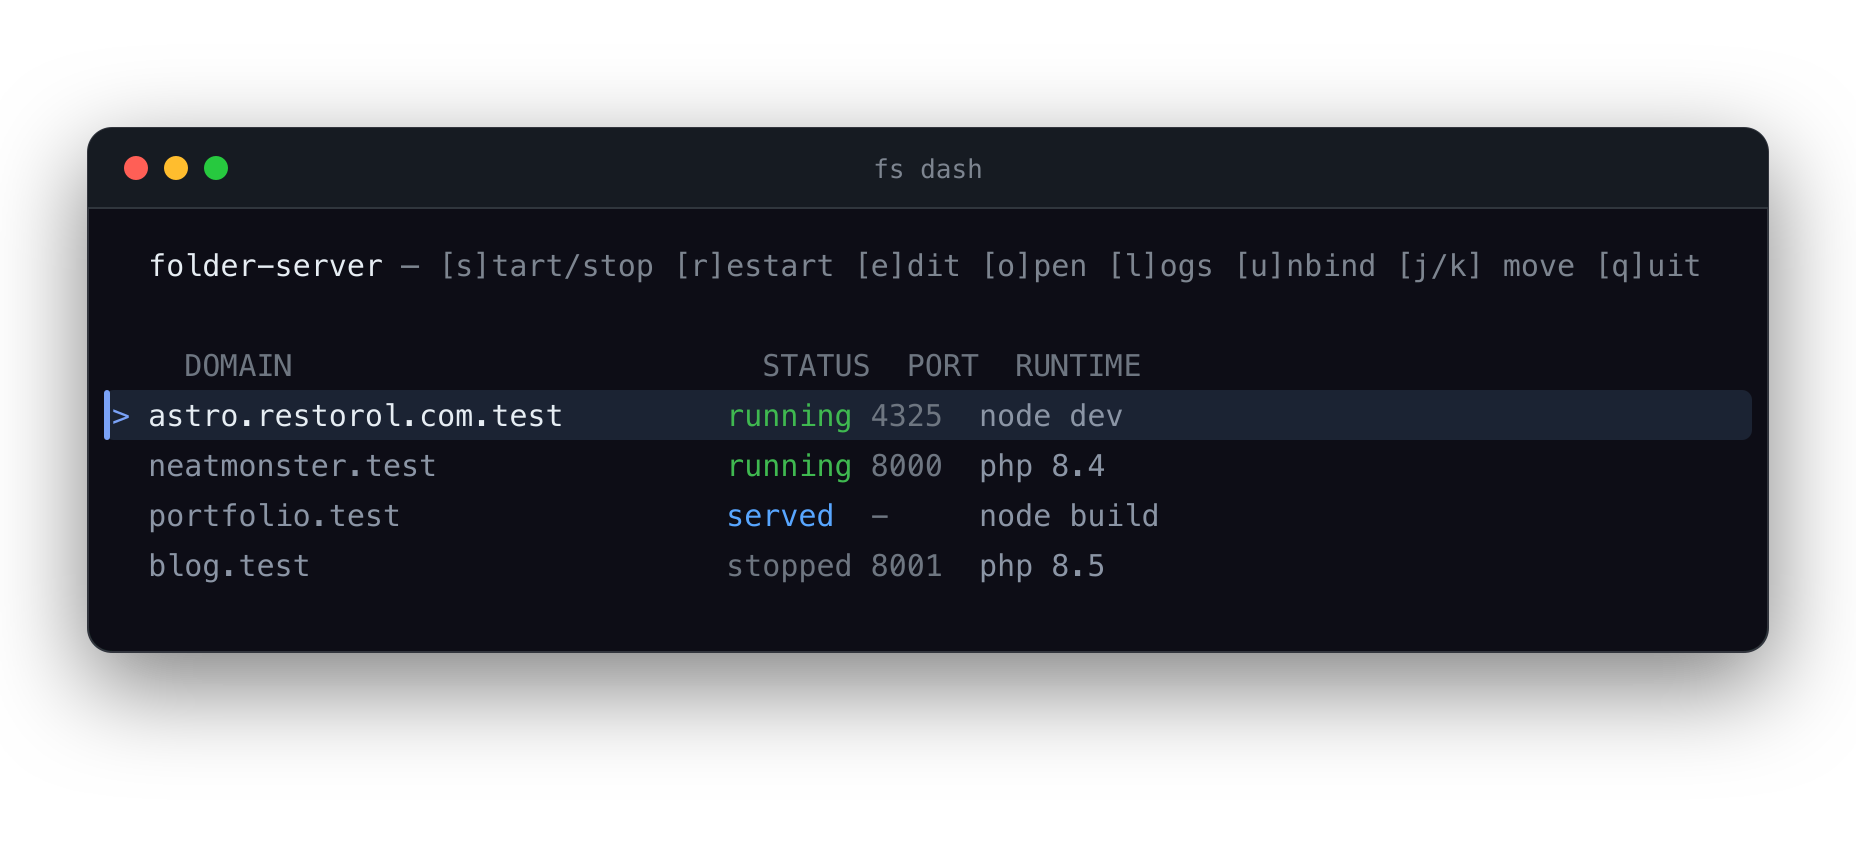
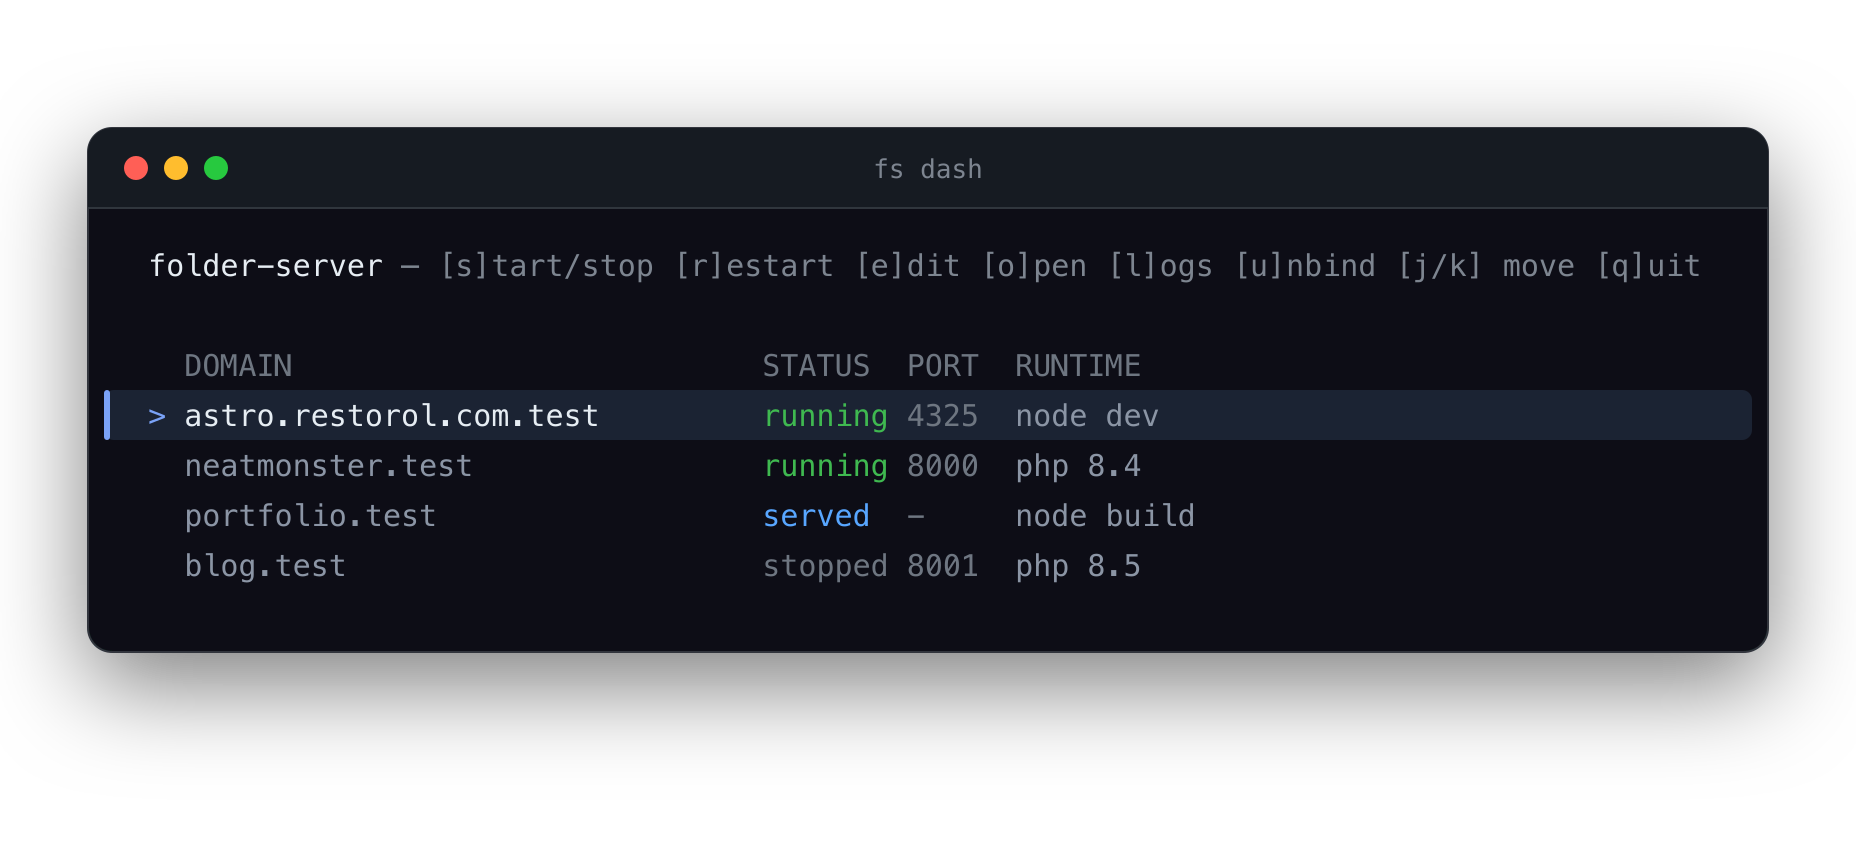
feat: fs unbind --all + align dashboard image columns
- fs unbind --all: unbind every registered site at once (stop, delete each
  .folderserver, forget it). Snapshots the domain list first since unbinding
  mutates the registry. +2 tests.
- docs/dash: data rows now carry the same 4-char lead as the header (2 spaces +
  marker + space), so DOMAIN/STATUS/PORT/RUNTIME line up with the column names.

106/106, shellcheck clean.

Changed region(s): [[0.4062, 0.4621, 0.6562, 0.7085], [0.0625, 0.4621, 0.3125, 0.7085]]

diff --git a/README.md b/README.md
@@ -78,7 +78,7 @@ optional MySQL (with a login/password).
 | `fs open` | Open this folder's URL in the browser |
 | `fs logs` | Tail this folder's PHP log |
 | `fs db start\|stop\|status` | Control the shared MySQL service |
-| `fs unbind` | Stop, delete `.folderserver`, and forget the site |
+| `fs unbind` / `fs unbind --all` | Stop, delete `.folderserver`, and forget the site (or every site) |
 
 ## Configuration — `.folderserver`
 